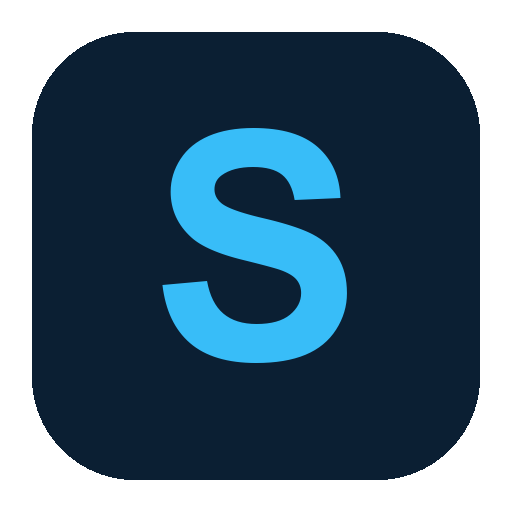
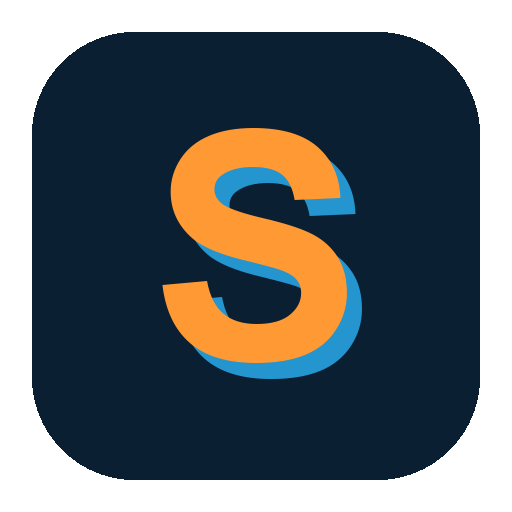
Use saffron-to-blue S mark and brand the chat launcher.
Pairs India saffron with sky blue on the logo/favicons while keeping navy chrome; chat FAB and panel now use the Shanvai mark instead of AI text.

Changed region(s): [[0.3125, 0.25, 0.7188, 0.75]]

diff --git a/apps/chatbot/src/ChatbotRemote.tsx b/apps/chatbot/src/ChatbotRemote.tsx
@@ -144,11 +144,21 @@ export default function ChatbotRemote({
             className="mb-3 flex h-[min(560px,70vh)] w-[min(380px,calc(100vw-2.5rem))] flex-col overflow-hidden rounded-2xl border border-[#CDE3F2] bg-white shadow-[0_18px_50px_rgba(43,156,217,0.12)]"
           >
             <header className="flex items-center justify-between border-b border-[#CDE3F2] bg-[#E8F6FC] px-4 py-3">
-              <div>
-                <p id={titleId} className="font-display text-base font-semibold text-[#2F4A63]">
-                  Shanvai Assistant
-                </p>
-                <p className="text-xs text-[#6D8AA3]">Decision intelligence · BFSI</p>
+              <div className="flex items-center gap-2.5">
+                <img
+                  src="/shanvai-logo.svg"
+                  alt=""
+                  width={28}
+                  height={28}
+                  className="h-7 w-7 object-contain"
+                  aria-hidden
+                />
+                <div>
+                  <p id={titleId} className="font-display text-base font-semibold text-[#2F4A63]">
+                    Shanvai Assistant
+                  </p>
+                  <p className="text-xs text-[#6D8AA3]">Decision intelligence · BFSI</p>
+                </div>
               </div>
               <button
                 type="button"
@@ -237,14 +247,24 @@ export default function ChatbotRemote({
       <motion.button
         type="button"
         aria-expanded={open}
-        aria-controls={open ? undefined : undefined}
         aria-label={open ? 'Close Shanvai assistant' : 'Open Shanvai assistant'}
         onClick={() => setOpen((v) => !v)}
         whileHover={{ scale: 1.04 }}
         whileTap={{ scale: 0.96 }}
-        className="ml-auto flex h-14 w-14 items-center justify-center rounded-full bg-[#2B9CD9] text-white shadow-[0_12px_40px_rgba(43,156,217,0.35)]"
+        className="ml-auto flex h-14 w-14 items-center justify-center rounded-full border-2 border-[#FF9933]/50 bg-[#0B1F33] shadow-[0_12px_40px_rgba(2,132,199,0.28)] ring-2 ring-[#0284C7]/25"
       >
-        <span className="font-display text-lg font-bold">{open ? '×' : 'AI'}</span>
+        {open ? (
+          <span className="font-display text-xl font-bold text-white">×</span>
+        ) : (
+          <img
+            src="/shanvai-logo.svg"
+            alt=""
+            width={34}
+            height={34}
+            className="h-[34px] w-[34px] object-contain"
+            aria-hidden
+          />
+        )}
       </motion.button>
     </div>
   );

diff --git a/apps/shell/src/components/ChatbotFallback.tsx b/apps/shell/src/components/ChatbotFallback.tsx
@@ -6,6 +6,7 @@
  */
 import { useCallback, useEffect, useId, useRef, useState } from 'react';
 import { AnimatePresence, motion } from 'framer-motion';
+import { BrandLogo } from './BrandLogo';
 
 interface ChatbotFallbackProps {
   apiBaseUrl?: string;
@@ -123,11 +124,14 @@ export function ChatbotFallback({
             className="mb-3 flex h-[min(560px,70vh)] w-[min(380px,calc(100vw-2.5rem))] flex-col overflow-hidden rounded-2xl border border-line bg-surface shadow-soft"
           >
             <header className="flex items-center justify-between border-b border-line bg-brandSoft px-4 py-3">
-              <div>
-                <p id={titleId} className="font-display text-base font-semibold text-inkStrong">
-                  Shanvai Assistant
-                </p>
-                <p className="text-xs text-mist">Decision intelligence · BFSI</p>
+              <div className="flex items-center gap-2.5">
+                <BrandLogo size={28} decorative className="shrink-0" />
+                <div>
+                  <p id={titleId} className="font-display text-base font-semibold text-inkStrong">
+                    Shanvai Assistant
+                  </p>
+                  <p className="text-xs text-mist">Decision intelligence · BFSI</p>
+                </div>
               </div>
               <button
                 type="button"
@@ -205,9 +209,13 @@ export function ChatbotFallback({
         onClick={() => setOpen((v) => !v)}
         whileHover={{ scale: 1.04 }}
         whileTap={{ scale: 0.96 }}
-        className="ml-auto flex h-14 w-14 items-center justify-center rounded-full bg-brand text-white shadow-soft"
+        className="ml-auto flex h-14 w-14 items-center justify-center rounded-full border-2 border-[#FF9933]/50 bg-navy shadow-soft ring-2 ring-brand/25"
       >
-        <span className="font-display text-lg font-bold">{open ? '×' : 'AI'}</span>
+        {open ? (
+          <span className="font-display text-xl font-bold text-white">×</span>
+        ) : (
+          <BrandLogo size={34} decorative />
+        )}
       </motion.button>
     </div>
   );
